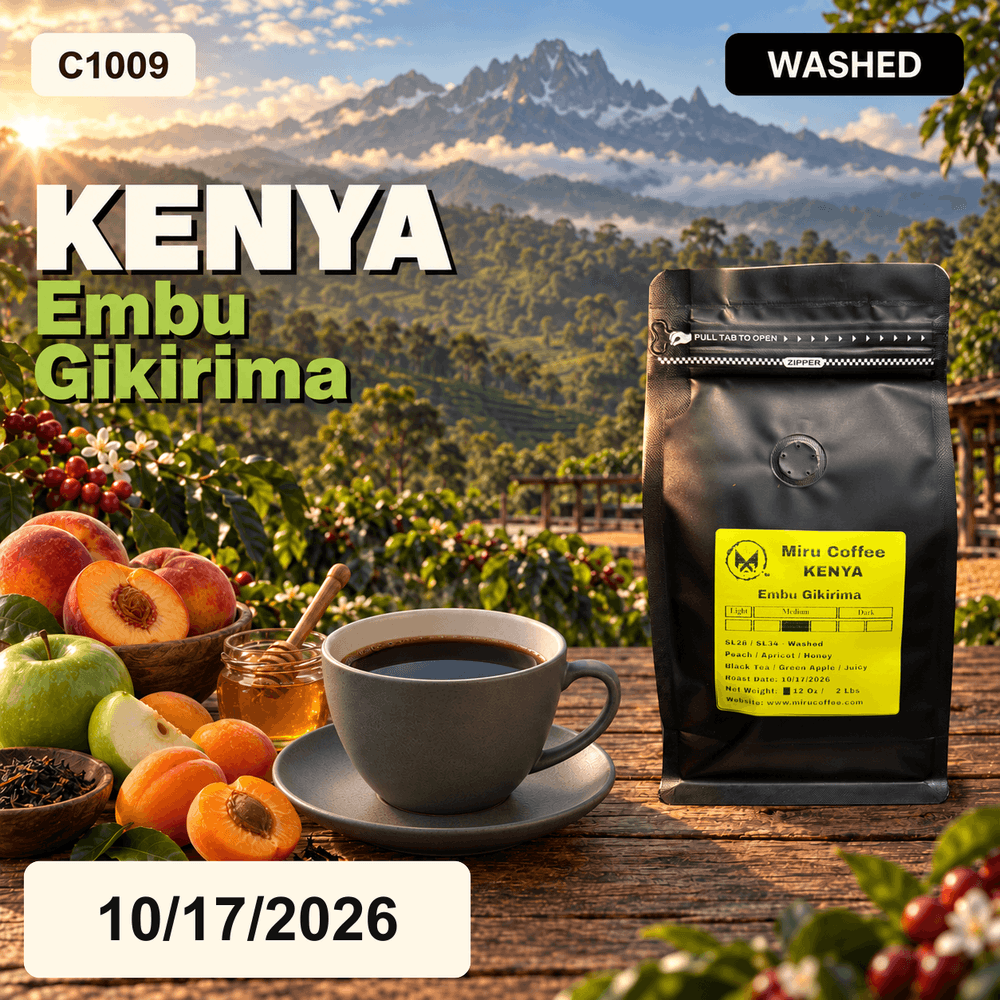
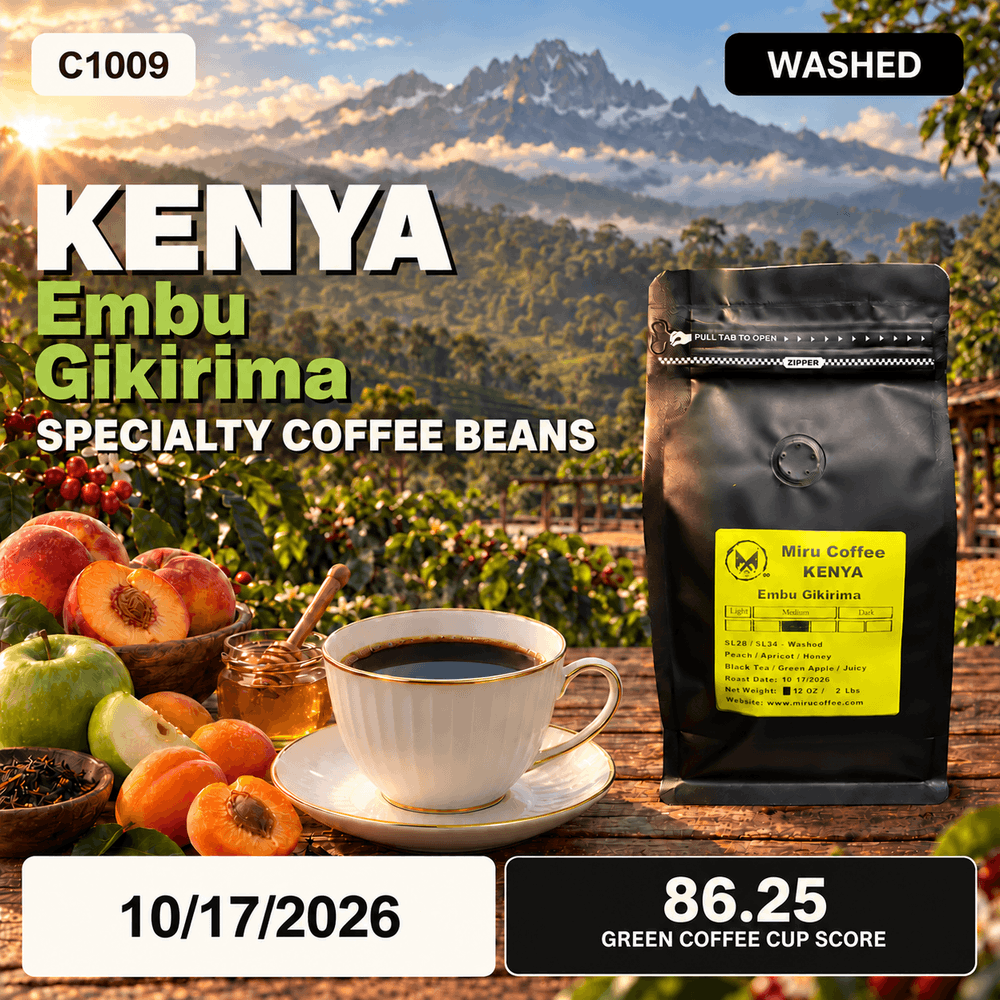
Update Kenya product photo with approved specialty design

diff --git a/index.html b/index.html
@@ -38,7 +38,7 @@
       <section class="card">
         <h2>Recent Roasts</h2>
         <div class="roast-gallery">
-          <img src="IMG/Product/PROD-1.png?v=20261017" alt="Previous" class="coffee-pack expandable-image" loading="lazy">
+          <img src="IMG/Product/PROD-1.png?v=20261017-v2" alt="Previous" class="coffee-pack expandable-image" loading="lazy">
           <img src="IMG/Product/PROD-2.png?v=20261017" alt="Previous 2nd" class="coffee-pack expandable-image" loading="lazy">
           <img src="IMG/Product/PROD-3.png?v=20261017" alt="Previous 3rd" class="coffee-pack expandable-image" loading="lazy">
           <img src="IMG/Product/PROD-4.png?v=20261017" alt="Previous 4th" class="coffee-pack expandable-image" loading="lazy">
